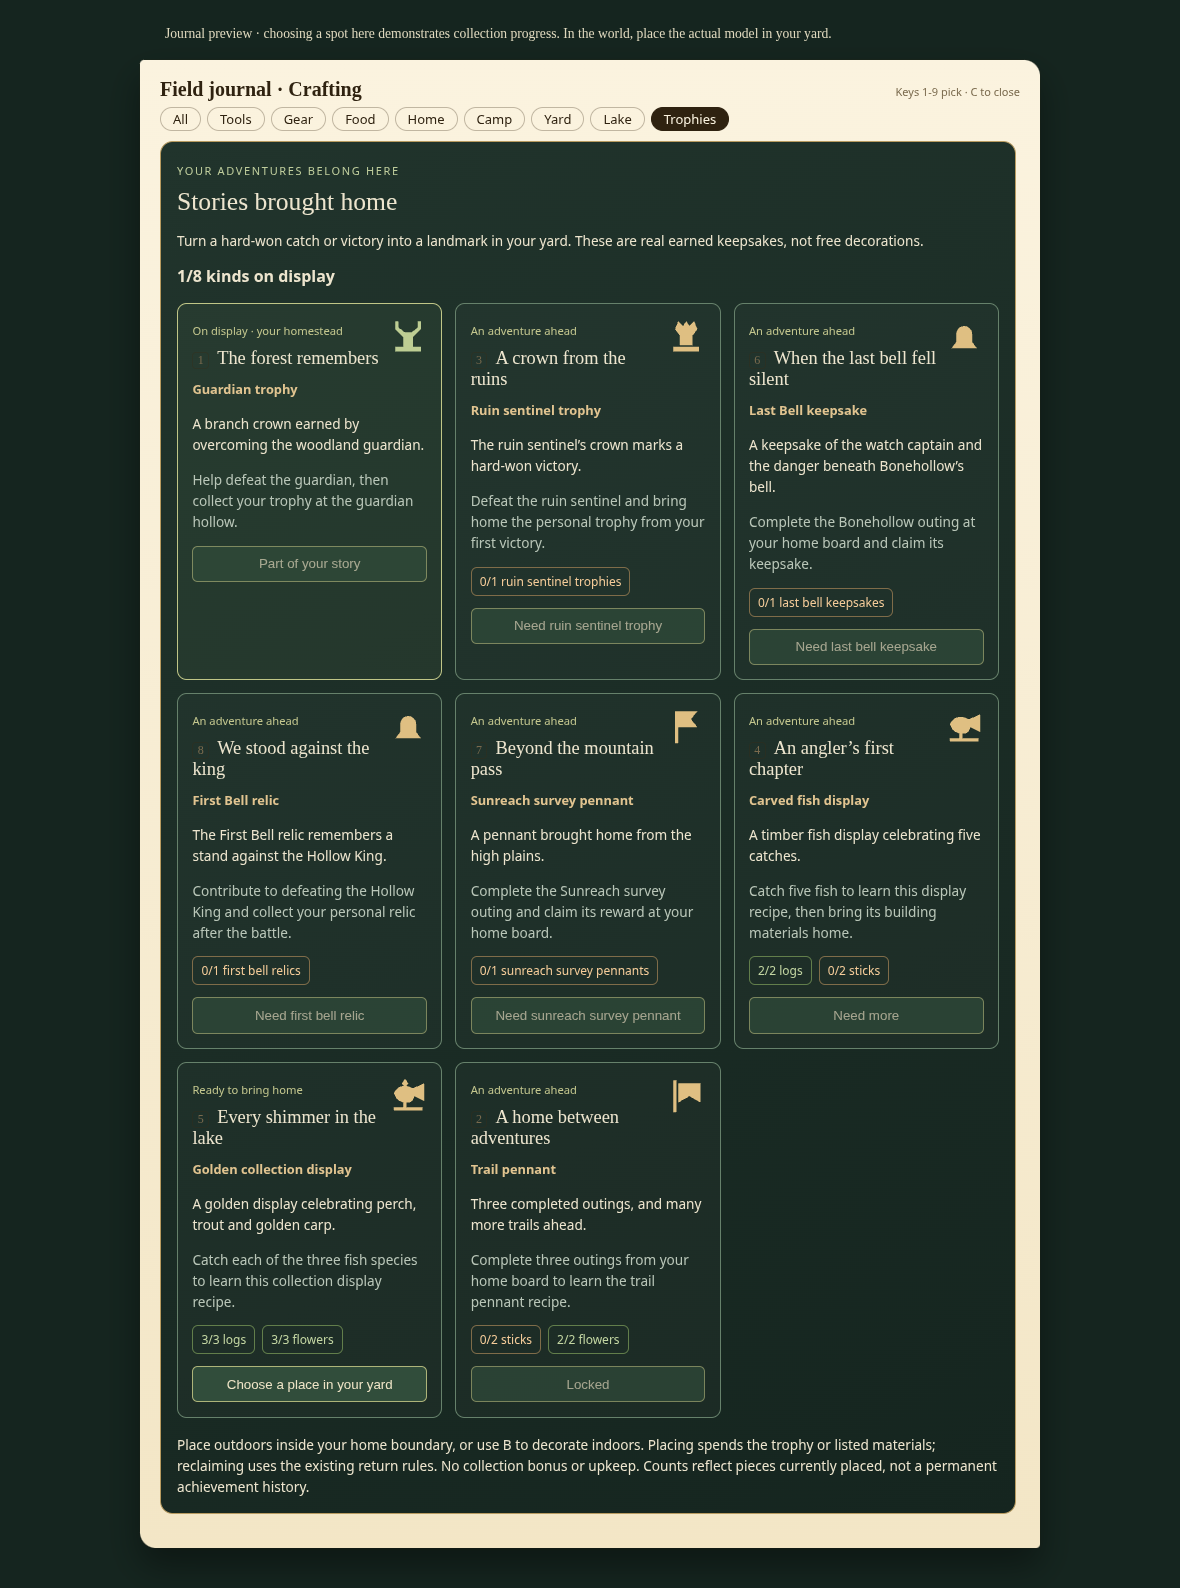
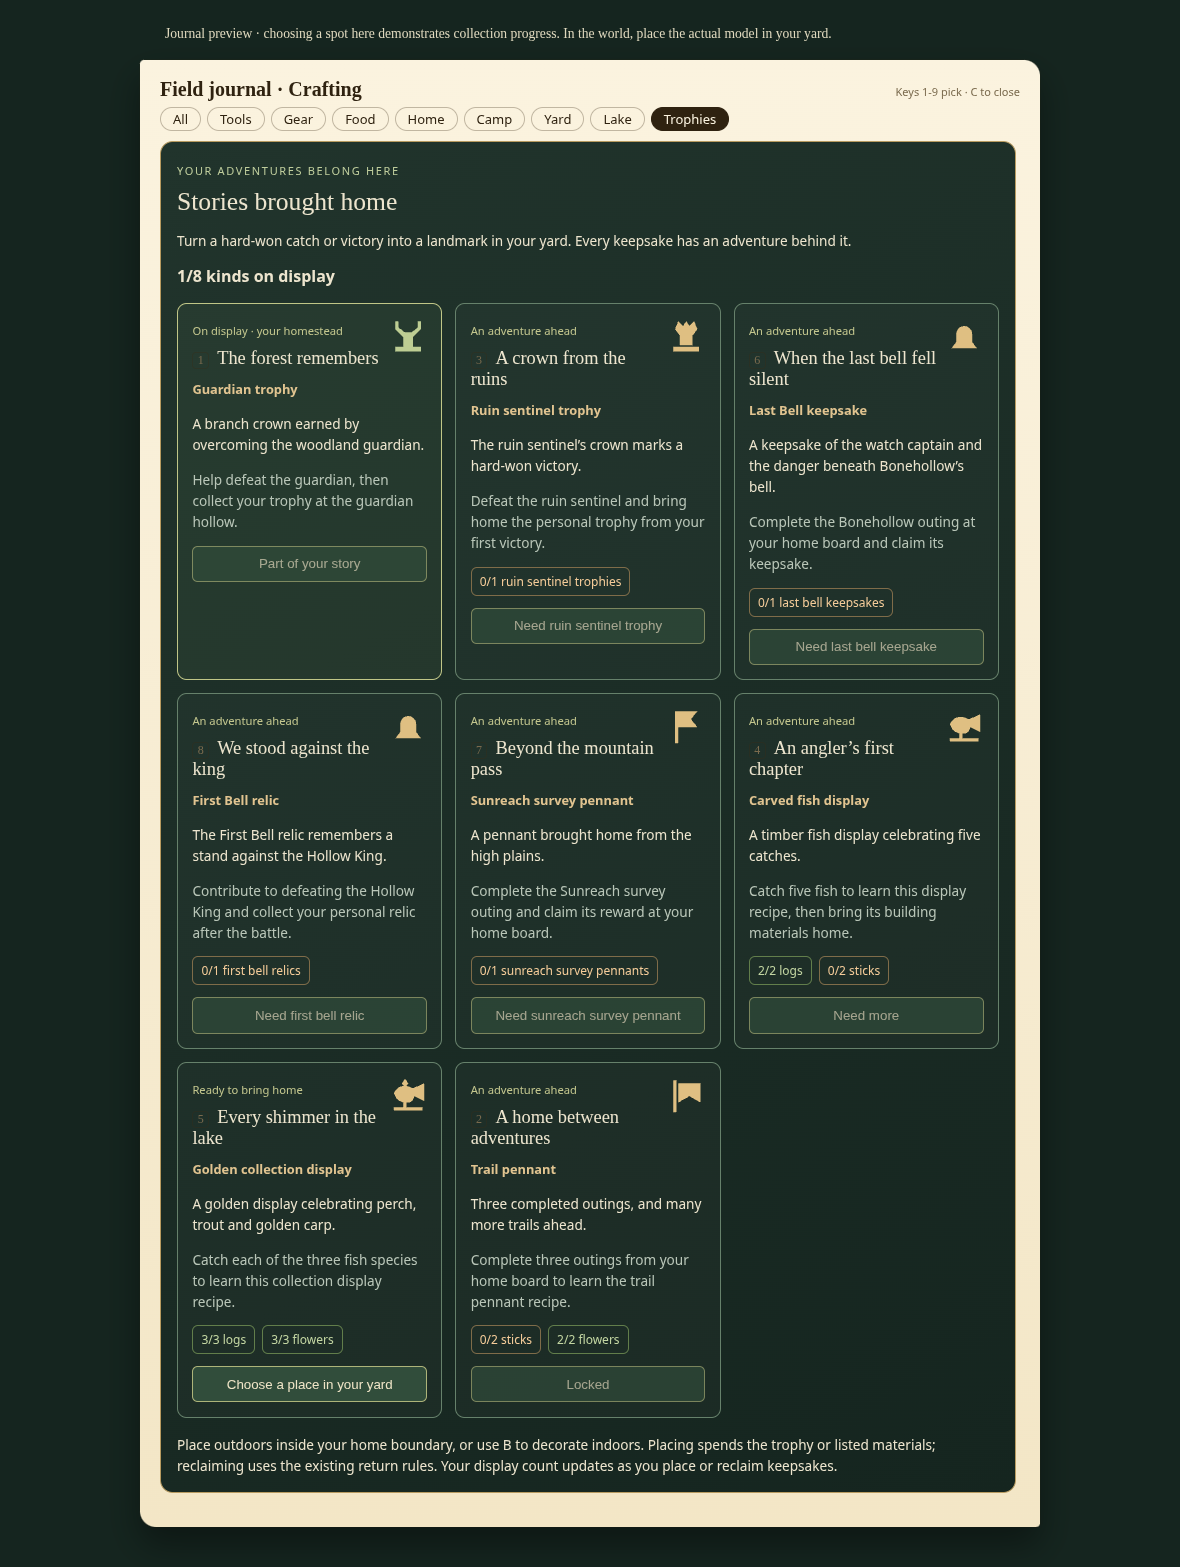
Polish the keepsake journal copy

diff --git a/apps/client/src/hud/TrophyCollection.tsx b/apps/client/src/hud/TrophyCollection.tsx
@@ -25,8 +25,8 @@ export function TrophyCollection({
         <span className="homestead-eyebrow">Your adventures belong here</span>
         <h3>Stories brought home</h3>
         <p>
-          Turn a hard-won catch or victory into a landmark in your yard. These are real earned
-          keepsakes, not free decorations.
+          Turn a hard-won catch or victory into a landmark in your yard. Every keepsake has an
+          adventure behind it.
         </p>
         <strong>
           {count}/{KEEPSAKES.length} kinds on display
@@ -96,8 +96,8 @@ export function TrophyCollection({
       </div>
       <footer>
         Place outdoors inside your home boundary, or use B to decorate indoors. Placing spends the
-        trophy or listed materials; reclaiming uses the existing return rules. No collection bonus
-        or upkeep. Counts reflect pieces currently placed, not a permanent achievement history.
+        trophy or listed materials; reclaiming uses the existing return rules. Your display count
+        updates as you place or reclaim keepsakes.
       </footer>
     </section>
   );
